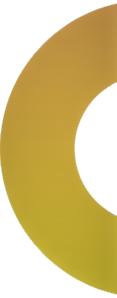
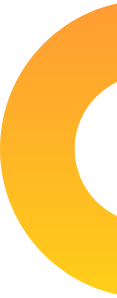
ongoing

diff --git a/index.html b/index.html
@@ -10,19 +10,44 @@
     <title>About Tushar</title>
 </head>
 <body>
-    <section>
-        <div class="topleft">
+    <section class="top-banner">
+        <div class="half-width">
             <h1> Hello There!</h1>
             <h1> Know about <span class="name">*_Tushar_*</span></h1>
             <h3>Upcoming World-Class web Developer</h3>
             <P>Lorem ipsum dolor sit amet consectetur adipisicing elit. Enim quo, tempore consectetur ducimus deserunt dolor quae maxime quos eveniet. Et ullam, reiciendis numquam quisquam amet beatae odio dolore asperiores esse! Lorem ipsum dolor sit amet consectetur adipisicing elit. Iusto, blanditiis! Ea, ex totam! Ratione ad voluptas ullam sequi rerum. Vero amet sunt labore laudantium, provident id iure voluptatem nisi voluptate.</P>
+            <a target="_blank" href="#" class="button">Click Me</a>
         </div>
-        <div class="topright">
+        <div class="half-width">
+            <img src="img/t2.jpg" alt="photo of tushar">
+        </div>
+    </section>
+    <section class="next-banner">
+        <div class="next-width">
+            <h1> And one of THE</h1>
+            <h1> Top Class <span class="name">Gamer</span></h1>
+            <h3>Upcoming Top-Class Gamer</h3>
+            <P>Lorem ipsum dolor sit amet consectetur adipisicing elit. Enim quo, tempore consectetur ducimus deserunt dolor quae maxime quos eveniet. Et ullam, reiciendis numquam quisquam amet beatae odio dolore asperiores esse! Lorem ipsum dolor sit amet consectetur adipisicing elit. Iusto, blanditiis! Ea, ex totam! Ratione ad voluptas ullam sequi rerum. Vero amet sunt labore laudantium, provident id iure voluptatem nisi voluptate.</P>
+            <a target="_blank" href="#" class="button">Click Me</a>
+        </div>
+        <div class="next-width">
             <img src="img/t1.jpg" alt="photo of tushar">
         </div>
     </section>
+    <section class="last-banner" >
+        <h2> Experiences</h2>
+                <div id="Baby-web" class="half-width" >
+                    <h2> Full Stack Web Dev</h2>
+                    <h3 class="name">2020-present | Pro Level Reached</h3>
+                    <p>Lorem ipsum dolor sit, amet consectetur adipisicing elit. Pariatur voluptatum repudiandae quia recusandae beatae modi, ex nihil eveniet accusamus maxime! Excepturi, vel accusamus necessitatibus odit velit sapiente voluptatum cupiditate et.</p>
 
-
-
+                </div>
+                <div id="full-stack" class="half-width">
+                    <h2> Full Stack Web Dev</h2>
+                    <h3 class="name">2020-present | Pro Level Reached</h3>
+                    <p>Lorem ipsum dolor sit, amet consectetur adipisicing elit. Pariatur voluptatum repudiandae quia recusandae beatae modi, ex nihil eveniet accusamus maxime! Excepturi, vel accusamus necessitatibus odit velit sapiente voluptatum cupiditate et.</p>
+                </div>
+    </section>
 </body>
+    <footer> <p> ©Sakline Tushar. All right reserved.</p></footer>
 </html>

diff --git a/style.css b/style.css
@@ -1,25 +1,93 @@
+body{
+    margin: 0;
+}
+
 h1{
+    font-size: 45px;
     font-family: 'Anton', sans-serif;
 }
 .name{
-    color: greenyellow;
+    color: rgb(78, 11, 155);
 }
-.topleft{
+.half-width{
     width: 40%;
     float: left;
     margin-left: 5%;
-    padding-left: 2%;
+    padding: 2%;
 }
-.topright{
+
+.half-width img{
+    width: 100%;
+    border-radius: 50%;
+    margin-left:
+}
+
+.top-banner{
+    background-image: url(img/top-banner.png);
+    background-repeat: no-repeat;
+}
+
+section{
+    height: 500px;
+}
+section .next-banner{
+    background-image: url(img/top-banner.png);
+    background-repeat: no-repeat;
+    float: right;
+}
+.button{
+    font-family: Verdana, Geneva, Tahoma, sans-serif;
+    text-decoration: none;
+    background-image: linear-gradient(90deg, lightsalmon,tomato) ;
+    padding: 10px 20px;
+    font-weight: 700;
+    border-radius: 10%;
+    color: indigo;
+
+}
+.next-width{
     width: 40%;
     float: right;
     margin-left: 5%;
-    padding-left: 2%;
+    padding: 2%;
 }
-.topright img{
-    height: 360px;
-    margin-top: 2%;
-    width: 280px
-    padding
-    
+
+.next-width img{
+    width: 75%;
+    border-radius: 40%;
+    margin-left:
 }
+section{
+    height: 500px;
+}
+ .next-banner{
+     background-image: url(img/dream-bg.png);
+     background-repeat: no-repeat;
+     background-position: right;
+ }
+
+ .last-banner .half-width{
+    box-shadow: 10px 10px 40px indigo;
+    border-radius: 10px;
+    height: 80%;
+    float: left;
+
+ }
+
+ .last-banner{
+    background-image: url(img/exp-bg.png);
+    background-repeat: no-repeat;
+    background-position: left;
+ }
+ #full-stack{
+    border-left: 7px solid;
+    border-image: linear-gradient(180deg,lightSalmon, tomato);
+    border-image-slice: 1;
+}
+#baby-web{
+    border-left: 7px solid;
+    border-image: linear-gradient(180deg, rgb(231, 108, 8), rgb(255, 153, 0));
+    border-image-slice: 1;
+}
+footer p{
+    text-align: center;
